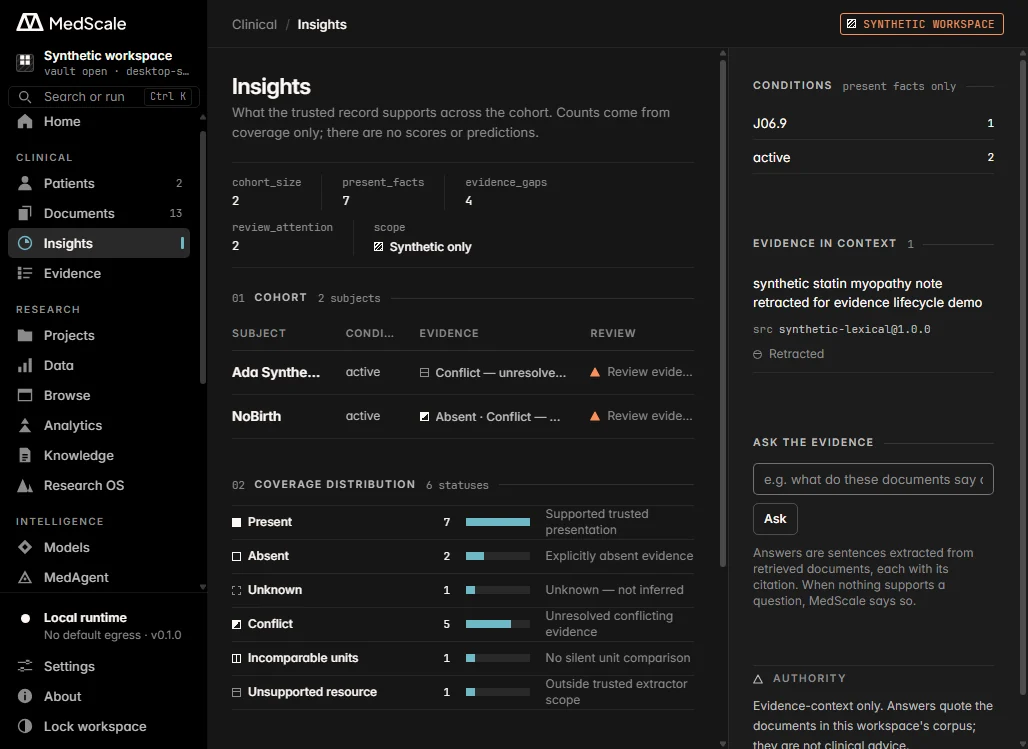
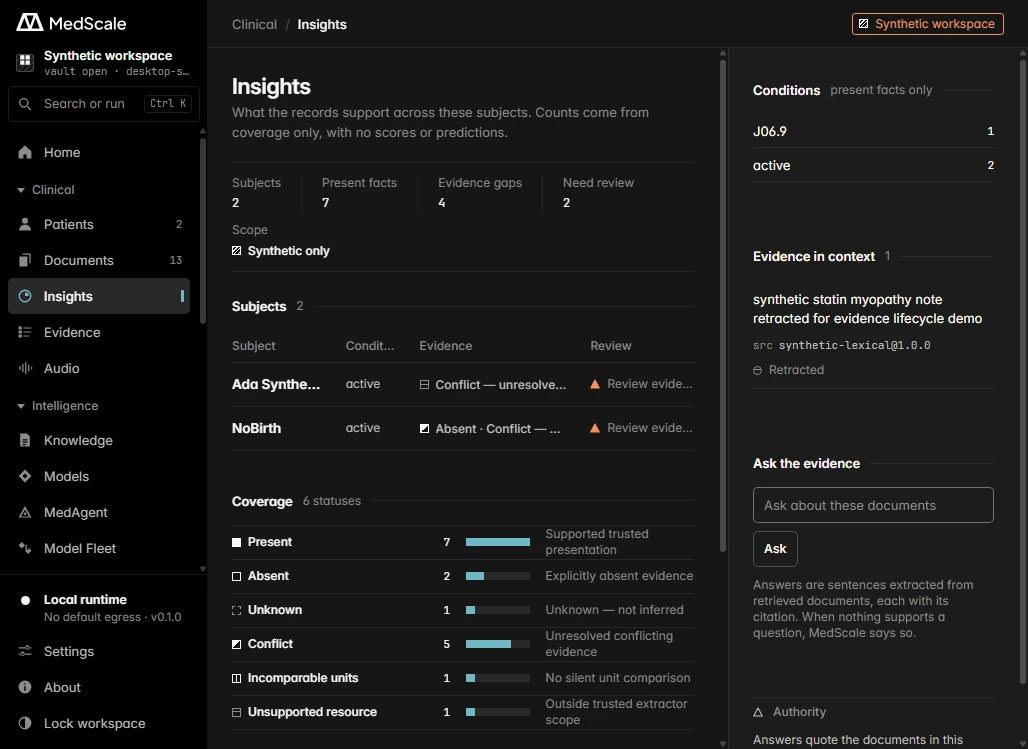
feat(web): show the redesigned app in the website's real screenshots
Unedited dark captures from desktop e2e run 42234584728 on 107f150e, the head that
merged as #452. The hero keeps its earlier crop of the Insights capture. The MedAgent
capture no longer shows the pack-folder form, so its caption note is removed. "Admitted
packs run on tract" was false for Whisper packs and now says ONNX packs. MedAgent's
subtitle no longer suggests installers can admit a pack.

diff --git a/web/src/lib/site.ts b/web/src/lib/site.ts
@@ -37,13 +37,13 @@ export const nav = [
   { href: "/community/", label: "Community" },
 ] as const;
 
-/** Real screenshots of the desktop app in its dark theme, captured by the desktop-e2e journeys (run 42107022693) on the synthetic workspace. */
+/** Real screenshots of the desktop app in its dark theme, captured by the desktop-e2e journeys (run 42234584728) on the synthetic workspace. */
 export const shots = {
   patients: { src: "/shots/patients-dark.webp", w: 1028, h: 749, alt: "MedScale Patients view listing two synthetic subjects with coverage and review status" },
   insightsHero: { src: "/shots/insights-hero-dark.webp", w: 1028, h: 620, alt: "MedScale Insights view showing cohort coverage, conflicts and an evidence-grounded answer for synthetic records" },
   insights: { src: "/shots/insights-dark.webp", w: 1028, h: 749, alt: "MedScale Insights view showing cohort coverage, conflicts and an evidence-grounded answer for synthetic records" },
-  medagent: { note: "Test build: installers don't show the pack-folder form", src: "/shots/medagent-dark.webp", w: 1028, h: 749, alt: "MedScale MedAgent view with an agent run bound to selected synthetic sources" },
-  models: { src: "/shots/models-dark.webp", w: 1028, h: 749, alt: "MedScale Models view with the local runtime state and the browsable model catalog" },
+  medagent: { src: "/shots/medagent-dark.webp", w: 1028, h: 749, alt: "MedScale MedAgent view with an agent run bound to selected synthetic sources" },
+  models: { src: "/shots/models-dark.webp", w: 1028, h: 749, alt: "MedScale Models view listing admitted packs, capability gaps and how model output is treated" },
   audit: { src: "/shots/audit-dark.webp", w: 1028, h: 749, alt: "MedScale Audit Trail listing a recorded synthetic disclosure" },
   knowledge: { src: "/shots/knowledge-dark.webp", w: 1028, h: 749, alt: "MedScale Knowledge view with a local index and search receipt" },
 } as const;

diff --git a/web/src/app/models/page.tsx b/web/src/app/models/page.tsx
@@ -61,7 +61,7 @@ export default function Models() {
           </div>
           <div className="stack-lg">
           <div className="cards">
-            <div className="card"><div className="card-top"><small>Runtime</small></div><strong>ONNX</strong><p>Admitted packs run on tract, a pure-Rust ONNX runtime, inside the Core. No native runtime to install.</p></div>
+            <div className="card"><div className="card-top"><small>Runtime</small></div><strong>ONNX</strong><p>ONNX packs run on tract, a pure-Rust runtime, inside the Core. No native runtime to install.</p></div>
             <div className="card"><div className="card-top"><small>Runtime</small></div><strong>Rust encoders</strong><p>Small encoder models such as token classifiers run on Candle, in Rust, on the CPU.</p></div>
             <div className="card"><div className="card-top"><small>Audio</small></div><strong>Local speech-to-text</strong><p>Transcription runs on device. It has been checked on synthetic speech only.</p></div>
           </div>

diff --git a/apps/desktop-tauri/src/pages/Intelligence.tsx b/apps/desktop-tauri/src/pages/Intelligence.tsx
@@ -194,7 +194,7 @@ type Run = { id: string; status: string; revision: number; prompt: string };
 type Turn = { seq: number; kind: string; payload: string };
 
 export function MedAgent() {
-  return <ProjectScope title="MedAgent" sub="Agents that run on local model packs you admit, reading only the sources you choose. Output is a proposal.">{(pid) => <MedAgentBody projectId={pid} />}</ProjectScope>;
+  return <ProjectScope title="MedAgent" sub="Agents that run on local model packs, reading only the sources you choose. Output is a proposal.">{(pid) => <MedAgentBody projectId={pid} />}</ProjectScope>;
 }
 
 type Agent = { id: string; label: string; status: string; revision?: number; pack_id?: string; tools?: string[] };

diff --git a/web/src/components/Shot.tsx b/web/src/components/Shot.tsx
@@ -8,7 +8,7 @@ export function Shot({ name, priority = false, caption = true }: { name: ShotKey
       <div className="frame">
         <img src={asset(s.src)} alt={s.alt} width={s.w} height={s.h} loading={priority ? "eager" : "lazy"} decoding="async" />
       </div>
-      {caption && <figcaption className="frame-caption"><span>Real screenshot · MedScale desktop for Windows{"note" in s ? ` · ${s.note}` : ""}</span><span>Synthetic workspace · no patient data</span></figcaption>}
+      {caption && <figcaption className="frame-caption"><span>Real screenshot · MedScale desktop for Windows</span><span>Synthetic workspace · no patient data</span></figcaption>}
     </figure>
   );
 }
